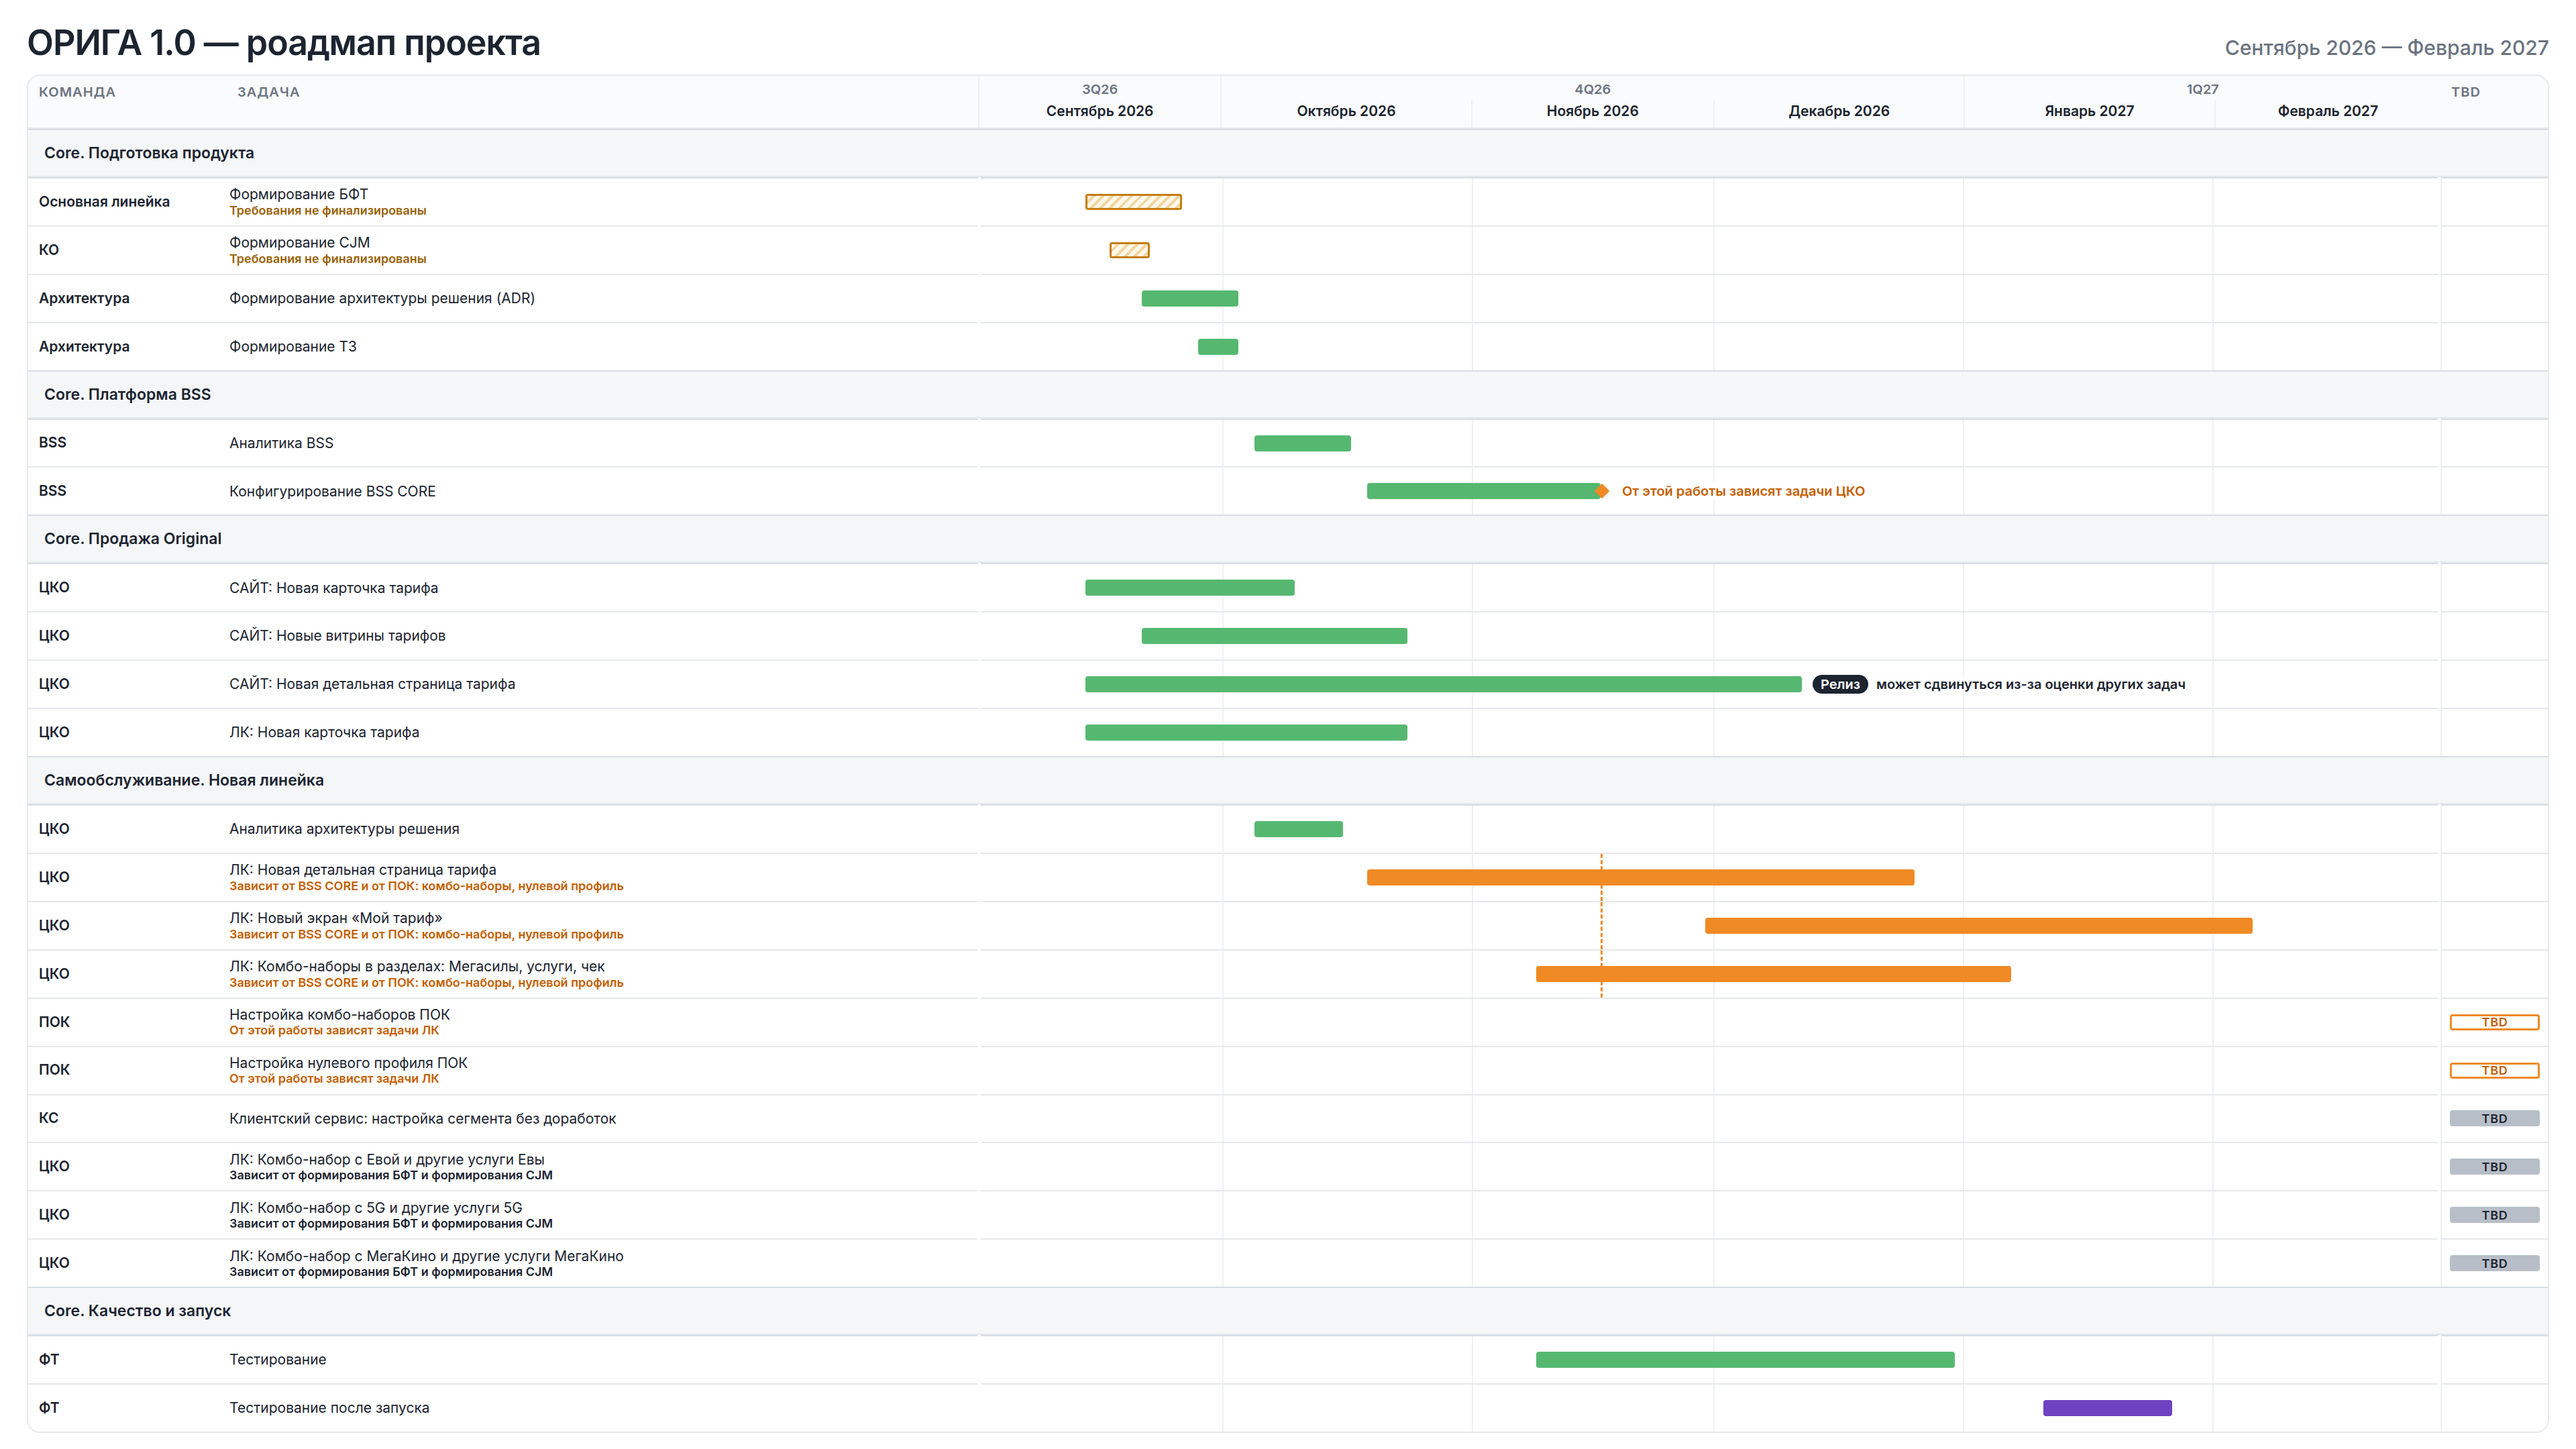
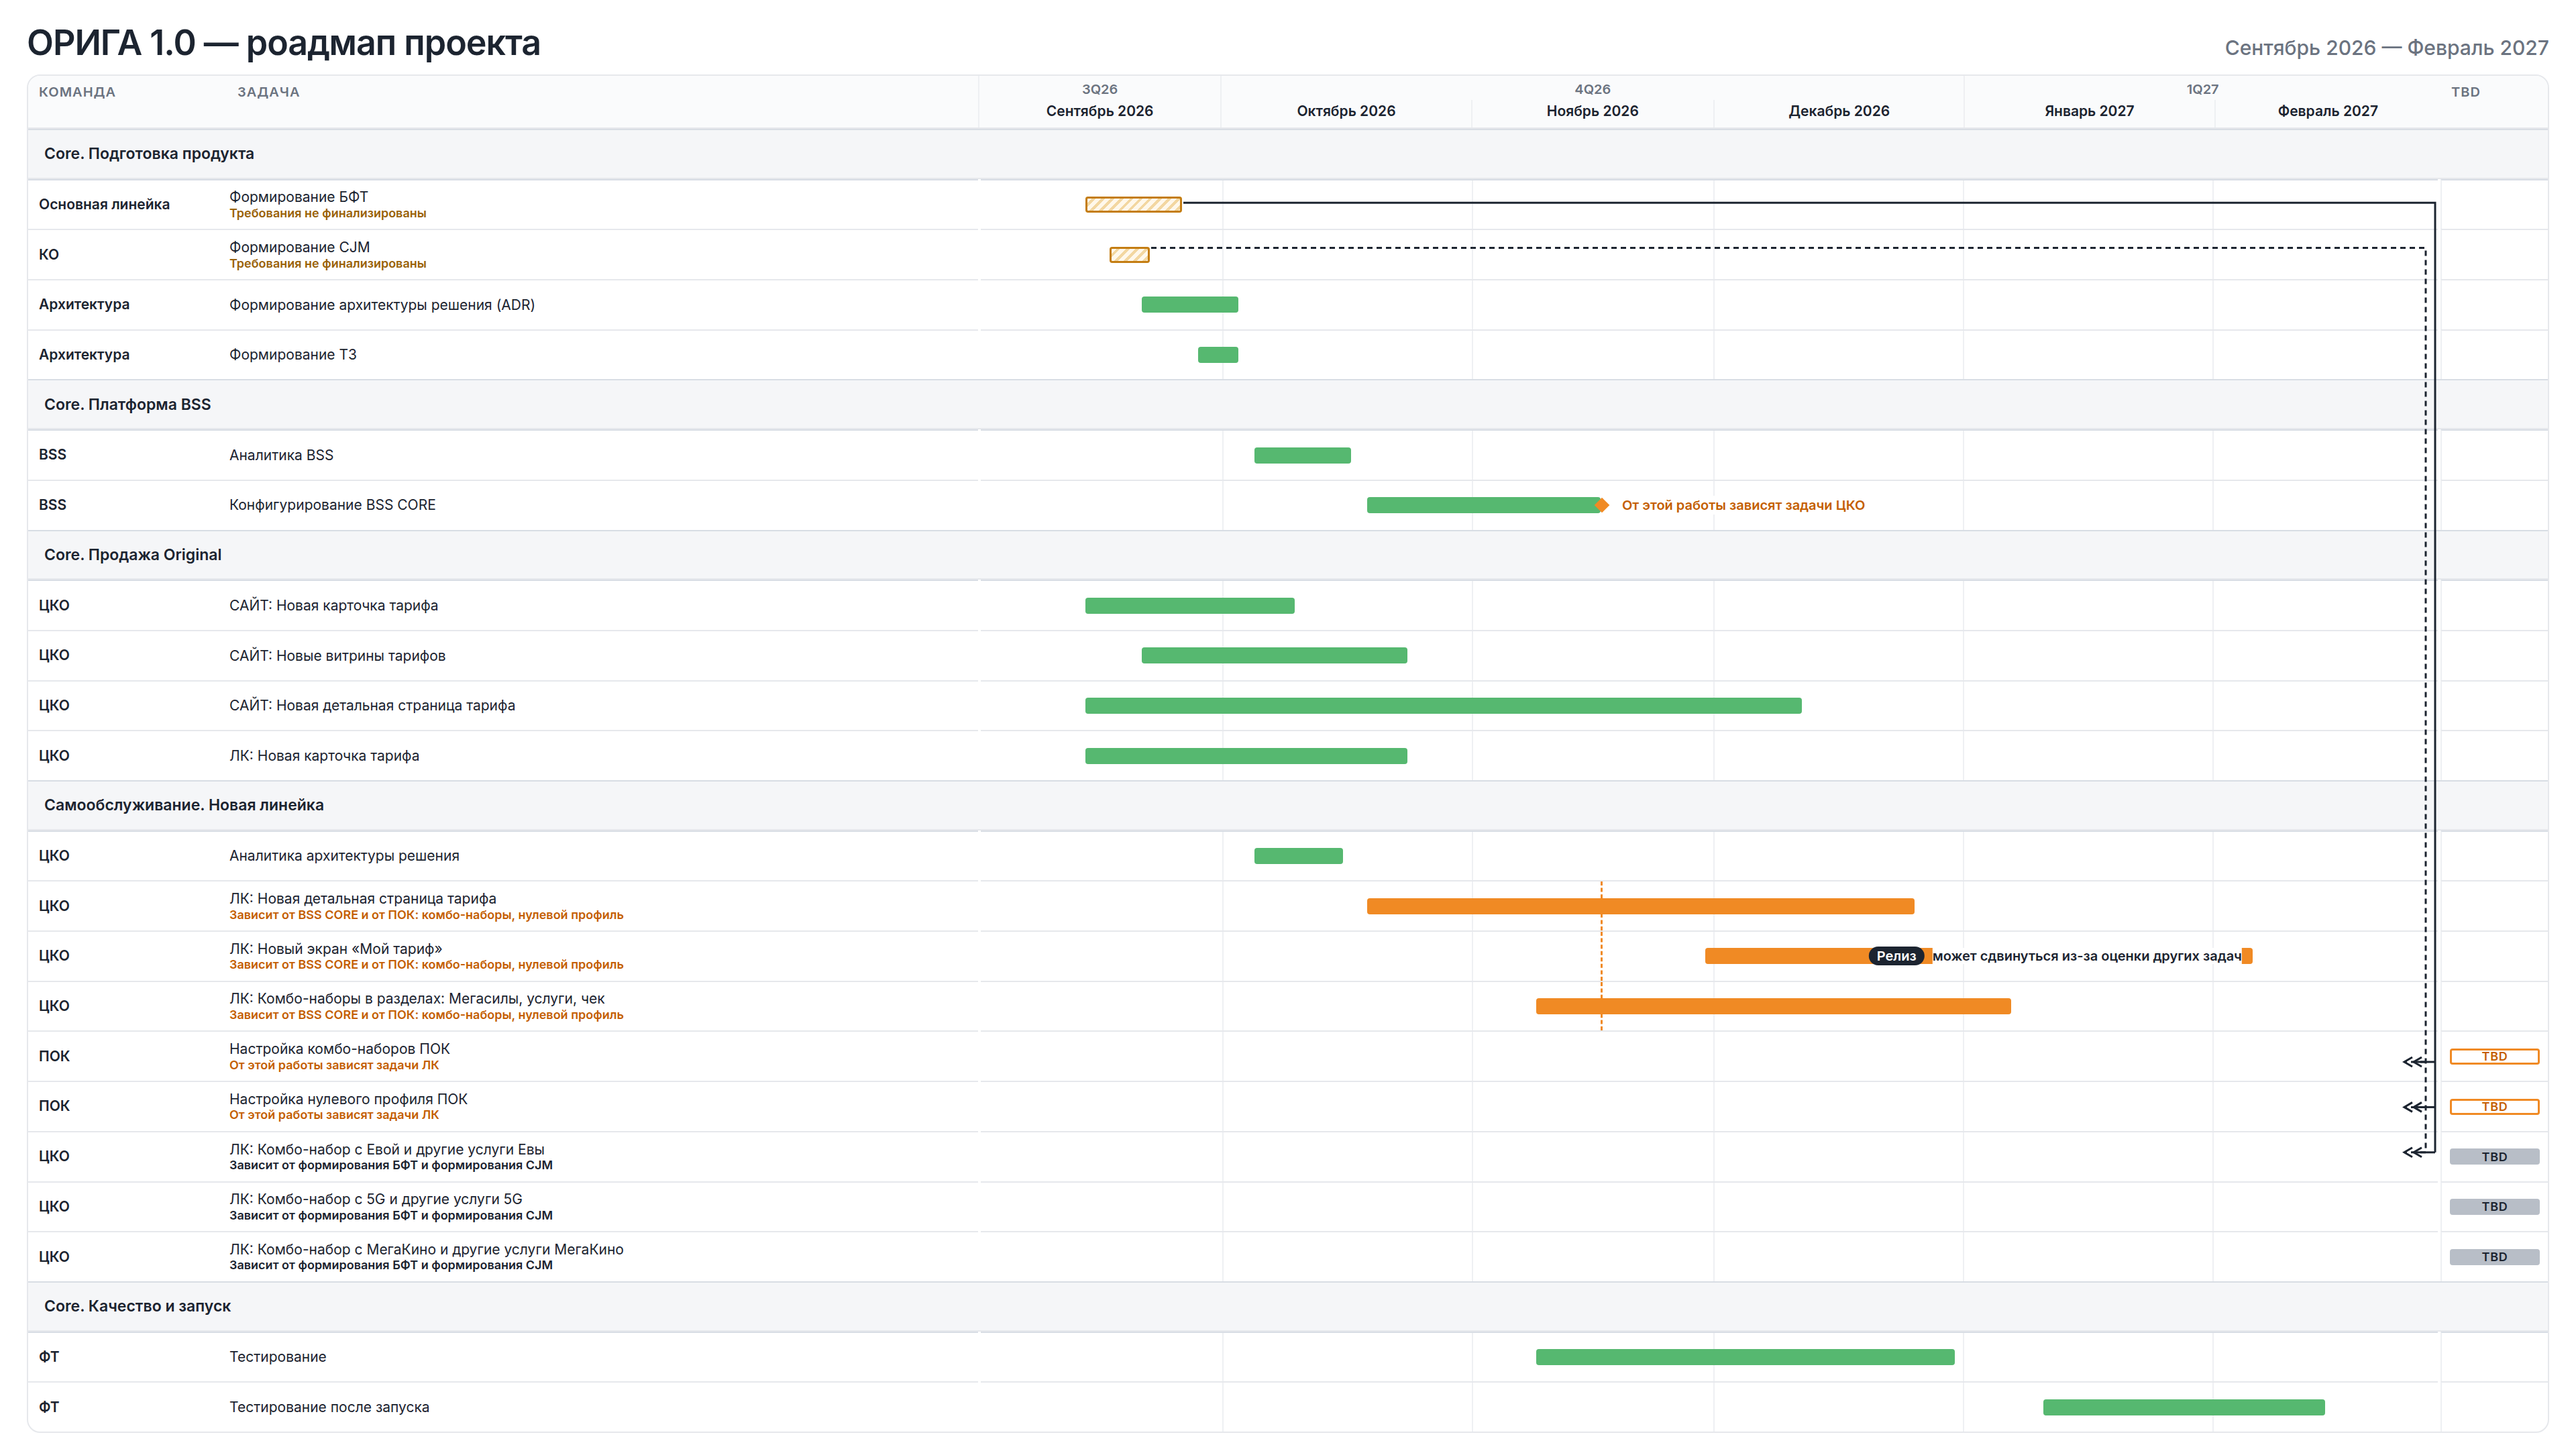
Link BFT and CJM to the combo tasks and move the release.
Draw dependency lines to the three combo rows, put the release on the February bar, drop client service, and extend post-launch testing in green through mid-February.

diff --git a/roadmap/render.js b/roadmap/render.js
@@ -81,19 +81,6 @@
   });
   const depAt = anchorGeom ? anchorGeom.left + anchorGeom.width : null;
 
-  let releaseRow = null;
-  let releaseLen = -1;
-  D.blocks.forEach((block) => {
-    block.rows.forEach((row) => {
-      if (!row.start || !row.end || row.tbd) return;
-      const len = Date.parse(`${row.end}T00:00:00Z`) - Date.parse(`${row.start}T00:00:00Z`);
-      if (len > releaseLen) {
-        releaseLen = len;
-        releaseRow = row;
-      }
-    });
-  });
-
   document.title = D.title;
   const h1 = document.querySelector('.head h1');
   const sub = document.querySelector('.head .sub');
@@ -135,6 +122,7 @@
       }
       if (dependsOnPrep) note += '<span class="task-note link">Зависит от формирования БФТ и формирования CJM</span>';
       if (isPokSource) note += '<span class="task-note source">От этой работы зависят задачи ЛК</span>';
+      const laneMeta = `${row.id ? ` data-id="${esc(row.id)}"` : ''}${dependsOnPrep ? ' data-prep="1"' : ''}`;
       html += `<div class="team${group}">${esc(row.team)}</div>`;
       html += `<div class="task${group}"><span class="task-name">${esc(row.task)}</span>${note}</div>`;
       const depTick = dependsOnBss && depAt != null
@@ -143,7 +131,7 @@
       if (row.tbd) {
         const laneDep = dependsOnBss ? ' dep' : '';
         const tbdCls = orange ? ' dep' : isPokSource ? ' source' : '';
-        html += `<div class="lane${laneDep}${group}">${depTick}</div>`;
+        html += `<div class="lane${laneDep}${group}"${laneMeta}>${depTick}</div>`;
         html += `<div class="tbd-cell${group}"><span class="tbd${tbdCls}">TBD</span></div>`;
         return;
       }
@@ -158,13 +146,63 @@
       const flag = row.id === 'bss-core' && depAt != null
         ? `<span class="dep-flag" style="left:calc(${depAt.toFixed(4)}% + 10px)">От этой работы зависят задачи ЦКО</span>`
         : '';
-      const release = row === releaseRow
-        ? `<span class="release-mark" style="left:calc(${(geom.left + geom.width).toFixed(4)}% + 8px)"><b>Релиз</b><span>может сдвинуться из-за оценки других задач</span></span>`
+      const release = row.release
+        ? `<span class="release-mark" style="left:${(geom.left + geom.width).toFixed(4)}%"><b>Релиз</b><span>может сдвинуться из-за оценки других задач</span></span>`
         : '';
-      html += `<div class="lane${dependsOnBss ? ' dep' : ''}${group}"><i class="${cls}" style="${geom.style}"></i>${depTick}${flag}${release}</div>`;
+      html += `<div class="lane${dependsOnBss ? ' dep' : ''}${group}"${laneMeta}><i class="${cls}" style="${geom.style}"></i>${depTick}${flag}${release}</div>`;
       html += `<div class="tbd-cell${group}"></div>`;
     });
   });
 
   chart.innerHTML = html;
+  drawPrepLinks(chart);
+
+  function drawPrepLinks(root) {
+    const targets = [...root.querySelectorAll('.lane[data-prep]')];
+    const sources = ['bft', 'cjm']
+      .map((id) => root.querySelector(`.lane[data-id="${id}"] .bar`))
+      .filter(Boolean);
+    if (!targets.length || !sources.length) return;
+    const crect = root.getBoundingClientRect();
+    const svg = document.createElementNS('http://www.w3.org/2000/svg', 'svg');
+    svg.setAttribute('class', 'prep-links');
+    svg.setAttribute('width', String(crect.width));
+    svg.setAttribute('height', String(crect.height));
+    root.appendChild(svg);
+    const ns = 'http://www.w3.org/2000/svg';
+    sources.forEach((bar, index) => {
+      const br = bar.getBoundingClientRect();
+      const x0 = br.right - crect.left;
+      const y0 = br.top + br.height / 2 - crect.top;
+      const laneRight = targets[0].getBoundingClientRect().right - crect.left;
+      const gutter = laneRight - 3 - index * 7;
+      const yLast = targets[targets.length - 1].getBoundingClientRect();
+      const yEnd = yLast.top + yLast.height / 2 - crect.top;
+      const spine = document.createElementNS(ns, 'path');
+      spine.setAttribute('d', `M ${x0.toFixed(1)} ${y0.toFixed(1)} H ${gutter.toFixed(1)} V ${yEnd.toFixed(1)}`);
+      spine.setAttribute('fill', 'none');
+      spine.setAttribute('stroke', '#1c2430');
+      spine.setAttribute('stroke-width', '1.5');
+      if (index === 1) spine.setAttribute('stroke-dasharray', '4 3');
+      svg.appendChild(spine);
+      targets.forEach((lane) => {
+        const lr = lane.getBoundingClientRect();
+        const y = lr.top + lr.height / 2 - crect.top;
+        const xTip = gutter - 16;
+        const tick = document.createElementNS(ns, 'path');
+        tick.setAttribute('d', `M ${gutter.toFixed(1)} ${y.toFixed(1)} H ${xTip.toFixed(1)}`);
+        tick.setAttribute('fill', 'none');
+        tick.setAttribute('stroke', '#1c2430');
+        tick.setAttribute('stroke-width', '1.5');
+        if (index === 1) tick.setAttribute('stroke-dasharray', '4 3');
+        svg.appendChild(tick);
+        const head = document.createElementNS(ns, 'path');
+        head.setAttribute('d', `M ${(xTip + 6).toFixed(1)} ${(y - 3.5).toFixed(1)} L ${xTip.toFixed(1)} ${y.toFixed(1)} L ${(xTip + 6).toFixed(1)} ${(y + 3.5).toFixed(1)}`);
+        head.setAttribute('fill', 'none');
+        head.setAttribute('stroke', '#1c2430');
+        head.setAttribute('stroke-width', '1.5');
+        svg.appendChild(head);
+      });
+    });
+  }
 })();

diff --git a/roadmap/data.js b/roadmap/data.js
@@ -34,11 +34,10 @@ window.ROADMAP_DATA = {
       rows: [
         { team: 'ЦКО', task: 'Аналитика архитектуры решения', start: '2026-10-05', end: '2026-10-15' },
         { team: 'ЦКО', task: 'ЛК: Новая детальная страница тарифа', start: '2026-10-19', end: '2026-12-25', dependsOn: ['bss-core', 'pok-combo', 'pok-zero'] },
-        { team: 'ЦКО', task: 'ЛК: Новый экран «Мой тариф»', start: '2026-11-30', end: '2027-02-05', dependsOn: ['bss-core', 'pok-combo', 'pok-zero'] },
+        { team: 'ЦКО', task: 'ЛК: Новый экран «Мой тариф»', start: '2026-11-30', end: '2027-02-05', dependsOn: ['bss-core', 'pok-combo', 'pok-zero'], release: true },
         { team: 'ЦКО', task: 'ЛК: Комбо-наборы в разделах: Мегасилы, услуги, чек', start: '2026-11-09', end: '2027-01-06', dependsOn: ['bss-core', 'pok-combo', 'pok-zero'] },
         { team: 'ПОК', task: 'Настройка комбо-наборов ПОК', tbd: true, id: 'pok-combo' },
         { team: 'ПОК', task: 'Настройка нулевого профиля ПОК', tbd: true, id: 'pok-zero' },
-        { team: 'КС', task: 'Клиентский сервис: настройка сегмента без доработок', tbd: true },
         { team: 'ЦКО', task: 'ЛК: Комбо-набор с Евой и другие услуги Евы', tbd: true, dependsOn: ['bft', 'cjm'] },
         { team: 'ЦКО', task: 'ЛК: Комбо-набор с 5G и другие услуги 5G', tbd: true, dependsOn: ['bft', 'cjm'] },
         { team: 'ЦКО', task: 'ЛК: Комбо-набор с МегаКино и другие услуги МегаКино', tbd: true, dependsOn: ['bft', 'cjm'] },
@@ -48,7 +47,7 @@ window.ROADMAP_DATA = {
       title: 'Core. Качество и запуск',
       rows: [
         { team: 'ФТ', task: 'Тестирование', start: '2026-11-09', end: '2026-12-30' },
-        { team: 'ФТ', task: 'Тестирование после запуска', start: '2027-01-11', end: '2027-01-26', later: true },
+        { team: 'ФТ', task: 'Тестирование после запуска', start: '2027-01-11', end: '2027-02-14' },
       ],
     },
   ],

diff --git a/roadmap/roadmap.css b/roadmap/roadmap.css
@@ -86,6 +86,7 @@ h1 {
   border: 1px solid var(--line);
   border-radius: 10px;
   overflow: hidden;
+  position: relative;
 }
 
 .colhead {
@@ -260,12 +261,22 @@ h1 {
 .release-mark {
   position: absolute;
   top: 50%;
-  transform: translateY(-50%);
+  transform: translate(-100%, -50%);
   display: flex;
   align-items: center;
   gap: 6px;
-  z-index: 2;
+  z-index: 3;
+  padding: 1px 8px 1px 4px;
+  background: #fff;
+  border-radius: 8px;
   white-space: nowrap;
+}
+
+.prep-links {
+  position: absolute;
+  inset: 0;
+  pointer-events: none;
+  z-index: 4;
 }
 
 .release-mark b {
